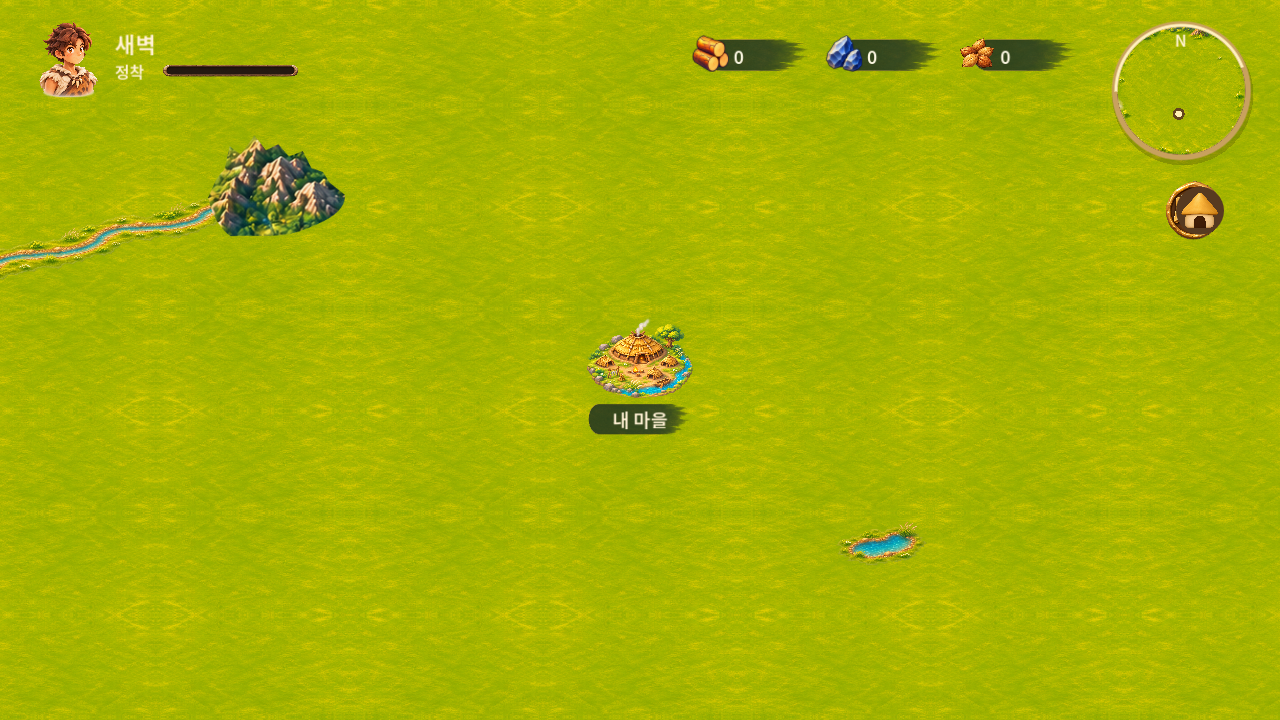
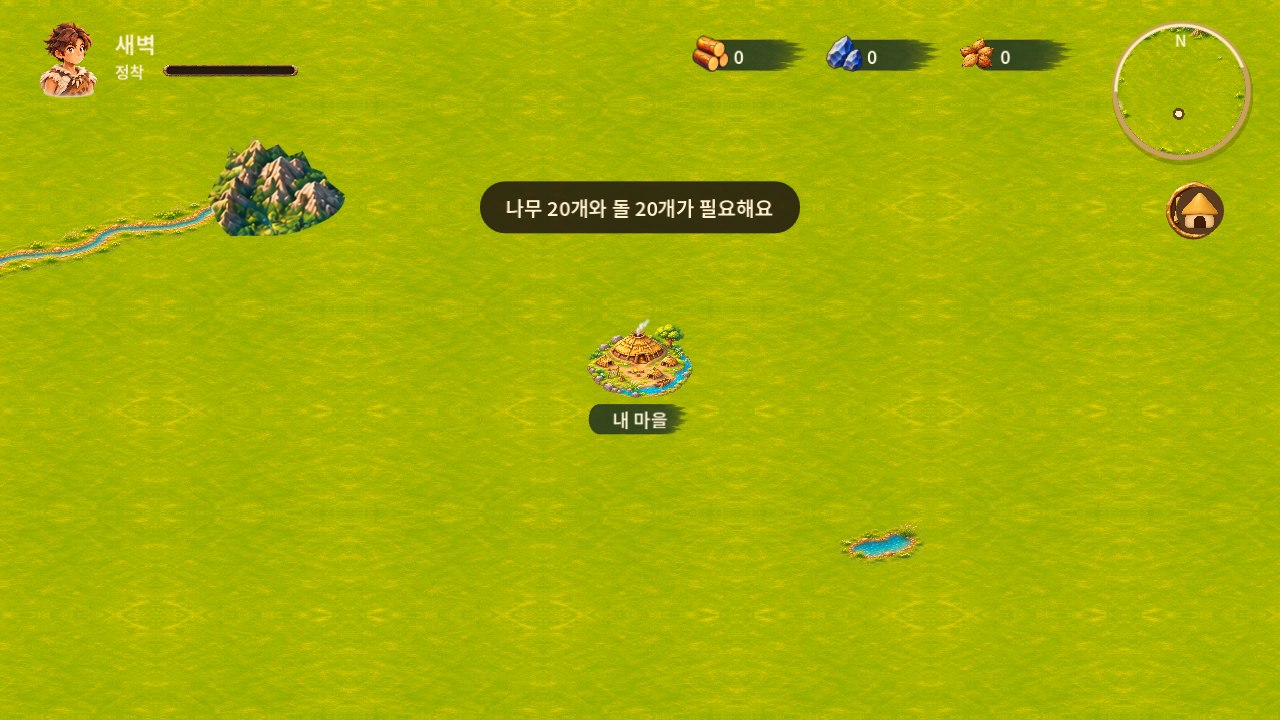
Remove PC build confirmation focus box and verify insufficient funds

Changed region(s): [[0.375, 0.2444, 0.625, 0.3361]]

diff --git a/docs/shared-reports/2026-11-05-visual-parity/README.md b/docs/shared-reports/2026-11-05-visual-parity/README.md
@@ -43,10 +43,10 @@
 ## 검증과 한계
 
 - Windows11 / NVIDIA RTX5060 / Godot4.5.1 Compatibility / 1280×720 / 고정60Hz / 별도 테스트 저장 사용.
-- 상태·저장343, 마을·건설48, 화면·월드 전환36 검사 통과. 자산148 및 음원16 무결성 통과. 시각 캡처는 자동 검사의 통과와 별개로 직접 비교했다.
+- 상태·저장343, 마을·건설48, 화면·월드 전환38 검사 통과. 자산148 및 음원16 무결성 통과. 시각 캡처는 자동 검사의 통과와 별개로 직접 비교했다.
 - 확인한 핵심: 건설 자재 부족/충족, 미리보기 취소 무지출, 원격 건설, 자원 점유, 저장 이전/중복 철거 방지, 가족 합류, 월드 줌·드래그·내 마을 탭.
 - GPS의 전체 월드 전용 렌더링은 보류. 현재 미니맵은 마을 지형 기반이며 월드에서 완전한 지형·카메라 표시와 일치하지 않는다. 후속 작업 필요.
-- 추가 답변으로 PC 자원 아이콘의 나무·돌·씨앗 이름 표시를 제거 대상으로 확인하여 반영. 건설 확인 tooltip도 제거했으며 실제 자원 수량은 유지.
+- 추가 답변으로 PC 자원 아이콘의 나무·돌·씨앗 이름 표시를 제거 대상으로 확인하여 반영. 건설 확인 tooltip도 제거했으며 실제 자원 수량은 유지. 추가 제보한 확인 버튼의 흰 사각형은 기본 포커스 스타일이 남아 있던 것으로 확인해 확인/취소 버튼의 포커스와 기본 테두리를 제거했다. 부족 상태 확인은 무지출·건설 차단 검증을 추가했다.
 - Figma 산은 기존 지도 크롭+마스크여서 가장자리 및 강 연결이 완전한 독립 에셋 수준은 아니다. 자연스러운 대규모 확장에는 이음새 검증된 타일과 독립 산 PNG가 필요하다. 현재 반복 타일은 기획과 동일한 임시 구조다.
 - 움집1단계는 Figma에서도 게임 검증 전 시안으로 명시되어 있다. 적용 가능성은 확인했으나 최종 품질 승인으로 간주하지 않는다. 사이드 이름표는 기존 붓터치 재사용으로 MAT-006의 양끝 대칭과 세부 차이가 남는다.
 - 실물 Fold 커버/펼침 터치, 직접 청취, 장시간 성능, Android 전체 플레이는 미검증. APK 설치·업데이트 및 배포 결과는 아래에 추가한다.
